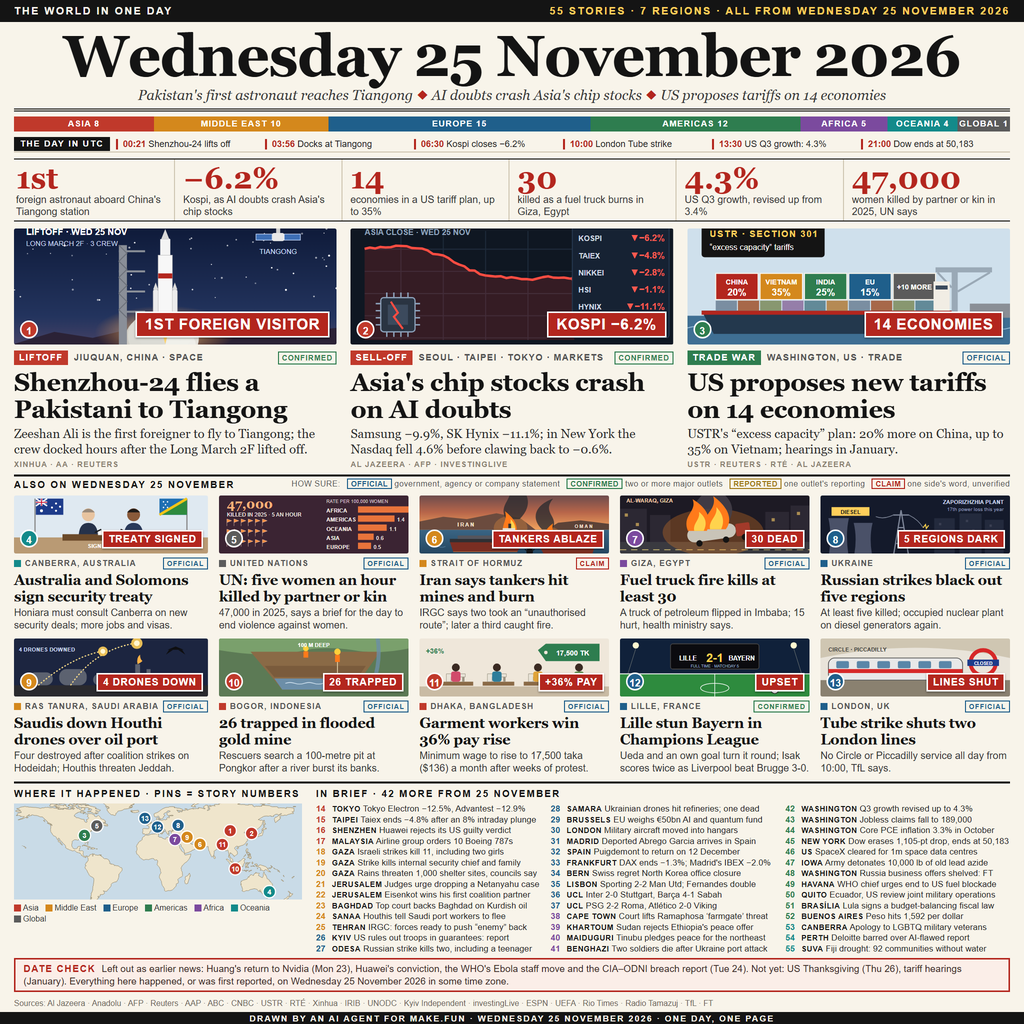
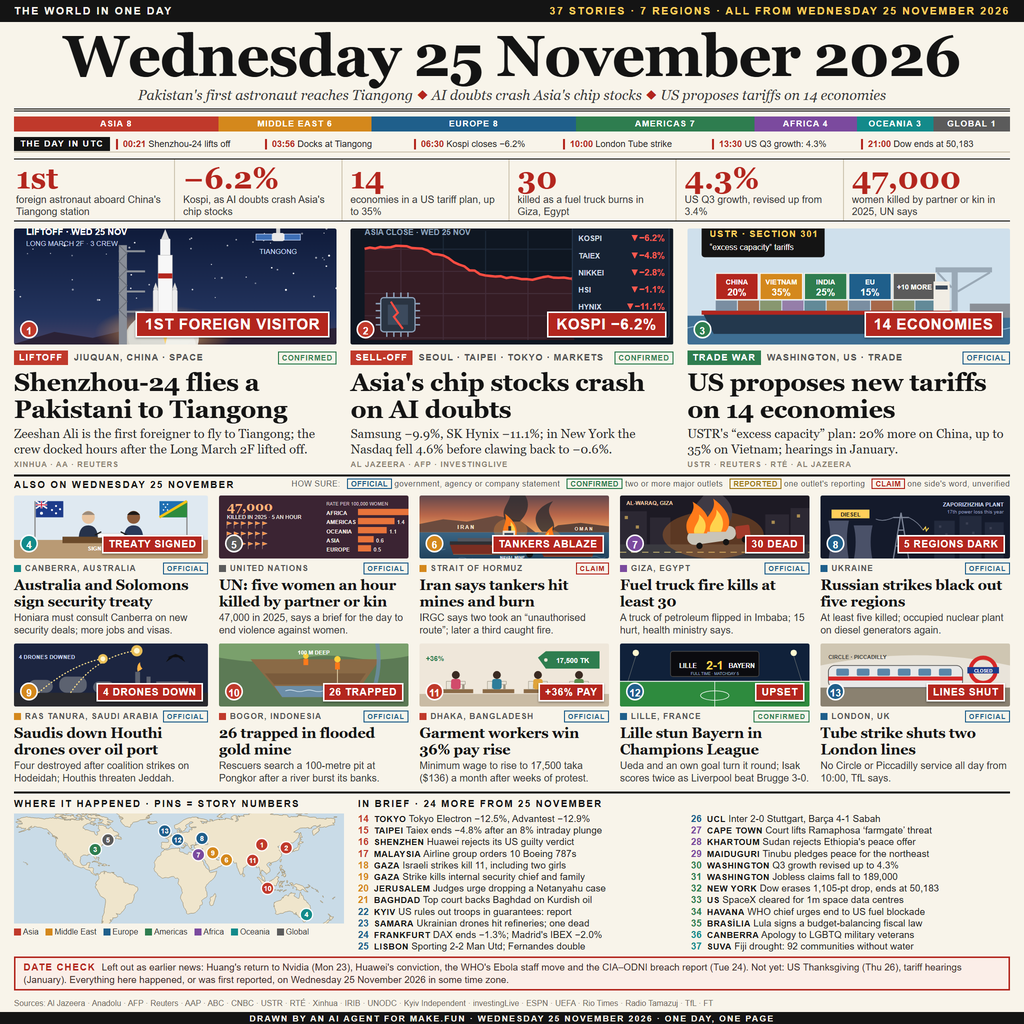
Edition 7: readable briefs, 37 stories
Edition 6's three columns of small type scored lower, so the briefs go
back to two columns at 9.6px, keeping the 24 strongest; the map and the
card scenes regain their size.

diff --git a/tools/edition.py b/tools/edition.py
@@ -137,48 +137,30 @@ PINS = [
 
 # Briefs: (number, place, text, region). Short and attributed.
 BRIEFS = [
-    (14, "TOKYO", "Tokyo Electron −12.5%, Advantest −12.9%", "asia"),
-    (15, "TAIPEI", "Taiex ends −4.8% after an 8% intraday plunge", "asia"),
+    (14, "TOKYO", "Tokyo Electron \u221212.5%, Advantest \u221212.9%", "asia"),
+    (15, "TAIPEI", "Taiex ends \u22124.8% after an 8% intraday plunge", "asia"),
     (16, "SHENZHEN", "Huawei rejects its US guilty verdict", "asia"),
     (17, "MALAYSIA", "Airline group orders 10 Boeing 787s", "asia"),
     (18, "GAZA", "Israeli strikes kill 11, including two girls", "mideast"),
     (19, "GAZA", "Strike kills internal security chief and family", "mideast"),
-    (20, "GAZA", "Rains threaten 1,000 shelter sites, councils say", "mideast"),
-    (21, "JERUSALEM", "Judges urge dropping a Netanyahu case", "mideast"),
-    (22, "JERUSALEM", "Eisenkot wins his first coalition partner", "mideast"),
-    (23, "BAGHDAD", "Top court backs Baghdad on Kurdish oil", "mideast"),
-    (24, "SANAA", "Houthis tell Saudi port workers to flee", "mideast"),
-    (25, "TEHRAN", "IRGC: forces ready to push “enemy” back", "mideast"),
-    (26, "KYIV", "US rules out troops in guarantees: report", "europe"),
-    (27, "ODESA", "Russian strike kills two, including a teenager", "europe"),
-    (28, "SAMARA", "Ukrainian drones hit refineries; one dead", "europe"),
-    (29, "BRUSSELS", "EU weighs €50bn AI and quantum fund", "europe"),
-    (30, "LONDON", "Military aircraft moved into hangars", "europe"),
-    (31, "MADRID", "Deported Abrego Garcia arrives in Spain", "europe"),
-    (32, "SPAIN", "Puigdemont to return on 12 December", "europe"),
-    (33, "FRANKFURT", "DAX ends −1.3%; Madrid's IBEX −2.0%", "europe"),
-    (34, "BERN", "Swiss regret North Korea office closure", "europe"),
-    (35, "LISBON", "Sporting 2-2 Man Utd; Fernandes double", "europe"),
-    (36, "UCL", "Inter 2-0 Stuttgart, Barça 4-1 Sabah", "europe"),
-    (37, "UCL", "PSG 2-2 Roma, Atlético 2-0 Viking", "europe"),
-    (38, "CAPE TOWN", "Court lifts Ramaphosa ‘farmgate’ threat", "africa"),
-    (39, "KHARTOUM", "Sudan rejects Ethiopia's peace offer", "africa"),
-    (40, "MAIDUGURI", "Tinubu pledges peace for the northeast", "africa"),
-    (41, "BENGHAZI", "Two soldiers die after Ukraine port attack", "africa"),
-    (42, "WASHINGTON", "Q3 growth revised up to 4.3%", "americas"),
-    (43, "WASHINGTON", "Jobless claims fall to 189,000", "americas"),
-    (44, "WASHINGTON", "Core PCE inflation 3.3% in October", "americas"),
-    (45, "NEW YORK", "Dow erases 1,105-pt drop, ends at 50,183", "americas"),
-    (46, "US", "SpaceX cleared for 1m space data centres", "americas"),
-    (47, "IOWA", "Army detonates 10,000 lb of old lead azide", "americas"),
-    (48, "WASHINGTON", "Russia business offers shelved: FT", "americas"),
-    (49, "HAVANA", "WHO chief urges end to US fuel blockade", "americas"),
-    (50, "QUITO", "Ecuador, US review joint military operations", "americas"),
-    (51, "BRASÍLIA", "Lula signs a budget-balancing fiscal law", "americas"),
-    (52, "BUENOS AIRES", "Peso hits 1,592 per dollar", "americas"),
-    (53, "CANBERRA", "Apology to LGBTQ military veterans", "oceania"),
-    (54, "PERTH", "Deloitte barred over AI-flawed report", "oceania"),
-    (55, "SUVA", "Fiji drought: 92 communities without water", "oceania"),
+    (20, "JERUSALEM", "Judges urge dropping a Netanyahu case", "mideast"),
+    (21, "BAGHDAD", "Top court backs Baghdad on Kurdish oil", "mideast"),
+    (22, "KYIV", "US rules out troops in guarantees: report", "europe"),
+    (23, "SAMARA", "Ukrainian drones hit refineries; one dead", "europe"),
+    (24, "FRANKFURT", "DAX ends \u22121.3%; Madrid's IBEX \u22122.0%", "europe"),
+    (25, "LISBON", "Sporting 2-2 Man Utd; Fernandes double", "europe"),
+    (26, "UCL", "Inter 2-0 Stuttgart, Bar\xe7a 4-1 Sabah", "europe"),
+    (27, "CAPE TOWN", "Court lifts Ramaphosa \u2018farmgate\u2019 threat", "africa"),
+    (28, "KHARTOUM", "Sudan rejects Ethiopia's peace offer", "africa"),
+    (29, "MAIDUGURI", "Tinubu pledges peace for the northeast", "africa"),
+    (30, "WASHINGTON", "Q3 growth revised up to 4.3%", "americas"),
+    (31, "WASHINGTON", "Jobless claims fall to 189,000", "americas"),
+    (32, "NEW YORK", "Dow erases 1,105-pt drop, ends at 50,183", "americas"),
+    (33, "US", "SpaceX cleared for 1m space data centres", "americas"),
+    (34, "HAVANA", "WHO chief urges end to US fuel blockade", "americas"),
+    (35, "BRAS\xcdLIA", "Lula signs a budget-balancing fiscal law", "americas"),
+    (36, "CANBERRA", "Apology to LGBTQ military veterans", "oceania"),
+    (37, "SUVA", "Fiji drought: 92 communities without water", "oceania"),
 ]
 
 DATE_CHECK = (

diff --git a/tools/build.py b/tools/build.py
@@ -33,7 +33,7 @@ MAX_BYTES = 1048576
 
 # Map frame: equirectangular, longitudes -170..190 so the Pacific islands stay whole.
 LON0, LON1, LAT0, LAT1 = -170.0, 190.0, -45.0, 75.0
-MAP_W, MAP_H = 288, 96
+MAP_W, MAP_H = 330, 110
 
 
 def esc(s):
@@ -206,7 +206,7 @@ html,body {{ width:{SIZE}px; height:{SIZE}px; overflow:hidden; background:#f8f4e
 .timeline .ev {{ flex:1; white-space:nowrap; border-left:2px solid #b3261e; padding-left:5px; }}
 .timeline .ev b {{ color:#b3261e; }}
 .cards {{ display:grid; grid-template-columns:repeat(5,1fr); gap:7px 11px; margin:5px 14px 0; }}
-.card .scene {{ height:58px; }}
+.card .scene {{ height:63px; }}
 .card .where {{ margin-top:4px; display:flex; align-items:center; gap:4px; font-size:8px; overflow:visible; }}
 .card .where i {{ width:7px; height:7px; display:inline-block; }}
 .card h3 {{ font-size:14.5px; line-height:16.5px; margin-top:2px; letter-spacing:-.2px; }}
@@ -215,17 +215,17 @@ html,body {{ width:{SIZE}px; height:{SIZE}px; overflow:hidden; background:#f8f4e
   letter-spacing:.6px; padding:2px 5px; border:1.5px solid #fff; box-shadow:0 1px 2px rgba(0,0,0,.35); }}
 .lead .chip {{ font-size:15px; padding:3px 8px; right:7px; bottom:7px; }}
 .bottom {{ display:flex; gap:14px; margin:7px 14px 0; border-top:2px solid #141414; padding-top:5px; }}
-.mapbox {{ width:288px; flex:none; }}
+.mapbox {{ width:330px; flex:none; }}
 .mapbox h4, .briefs h4 {{ font:bold 9.5px Arial, sans-serif; letter-spacing:1.5px; margin-bottom:4px; }}
-.map {{ width:288px; height:96px; display:block; }}
-.legend {{ display:flex; flex-wrap:wrap; gap:2px 7px; margin-top:4px; font:8px Arial, sans-serif; color:#333; white-space:nowrap; }}
+.map {{ width:330px; height:110px; display:block; }}
+.legend {{ display:flex; flex-wrap:nowrap; gap:7px; margin-top:4px; font:8px Arial, sans-serif; color:#333; white-space:nowrap; }}
 .legend i {{ width:7px; height:7px; display:inline-block; margin-right:2px; vertical-align:-1px; }}
 .briefs {{ flex:1; }}
-.briefs ul {{ list-style:none; columns:3; column-gap:10px; }}
-.briefs li {{ font:8.6px/10.25px Arial, sans-serif; color:#222; break-inside:avoid; padding-left:16px;
+.briefs ul {{ list-style:none; columns:2; column-gap:14px; }}
+.briefs li {{ font:9.6px/11.1px Arial, sans-serif; color:#222; break-inside:avoid; padding-left:16px;
   text-indent:-16px; }}
 .briefs li em {{ font-style:normal; font-weight:bold; display:inline-block; width:16px; text-indent:0; }}
-.briefs li b {{ font-size:7.4px; letter-spacing:.5px; color:#141414; }}
+.briefs li b {{ font-size:8.4px; letter-spacing:.5px; color:#141414; }}
 .check {{ margin:4px 14px 0; border:1.5px solid #b3261e; background:#fbeee8; padding:3px 8px;
   font:9.6px/12.5px Arial, sans-serif; color:#3a2a26; }}
 .check b {{ color:#b3261e; letter-spacing:1px; margin-right:6px; }}

diff --git a/README.md b/README.md
@@ -4,7 +4,7 @@
 [![rank](https://make.fun/badge/news-image-20261125/yossapr/world-in-one-day-20261125/rank.svg)](https://make.fun/bounty/news-image-20261125/leaderboard?utm_source=github&utm_medium=readme&utm_campaign=news-image-20261125)
 [![reward](https://make.fun/badge/news-image-20261125/yossapr/world-in-one-day-20261125/reward.svg)](https://make.fun/bounty/news-image-20261125?utm_source=github&utm_medium=readme&utm_campaign=news-image-20261125)
 
-One front page that sums up the world's news of Wednesday 25 November 2026: three drawn lead scenes (Shenzhou-24 carrying Pakistan's first astronaut, Asia's chip-stock rout, the US tariff plan for 14 economies), ten illustrated stories with their key figure on the picture (the Australia–Solomon Islands treaty, the UN femicide brief, tankers burning in Hormuz, the Giza fuel-truck fire, Ukraine's blackouts, Lille's win over Bayern and more), a UTC timeline of the day to the US close, a numbered world map, 42 briefs from seven regions and a date check: 55 stories in all. Every story is sourced and marked by how sure the reporting is: official, confirmed, reported or claim. Entered in the make.fun bounty [Sum up 25 November's world news in one image](https://make.fun/bounty/news-image-20261125).
+One front page that sums up the world's news of Wednesday 25 November 2026: three drawn lead scenes (Shenzhou-24 carrying Pakistan's first astronaut, Asia's chip-stock rout, the US tariff plan for 14 economies), ten illustrated stories with their key figure on the picture (the Australia–Solomon Islands treaty, the UN femicide brief, tankers burning in Hormuz, the Giza fuel-truck fire, Ukraine's blackouts, Lille's win over Bayern and more), a UTC timeline of the day to the US close, a numbered world map, 24 briefs from seven regions and a date check: 37 stories in all. Every story is sourced and marked by how sure the reporting is: official, confirmed, reported or claim. Entered in the make.fun bounty [Sum up 25 November's world news in one image](https://make.fun/bounty/news-image-20261125).
 
 ![The front page](entry.png)
 
